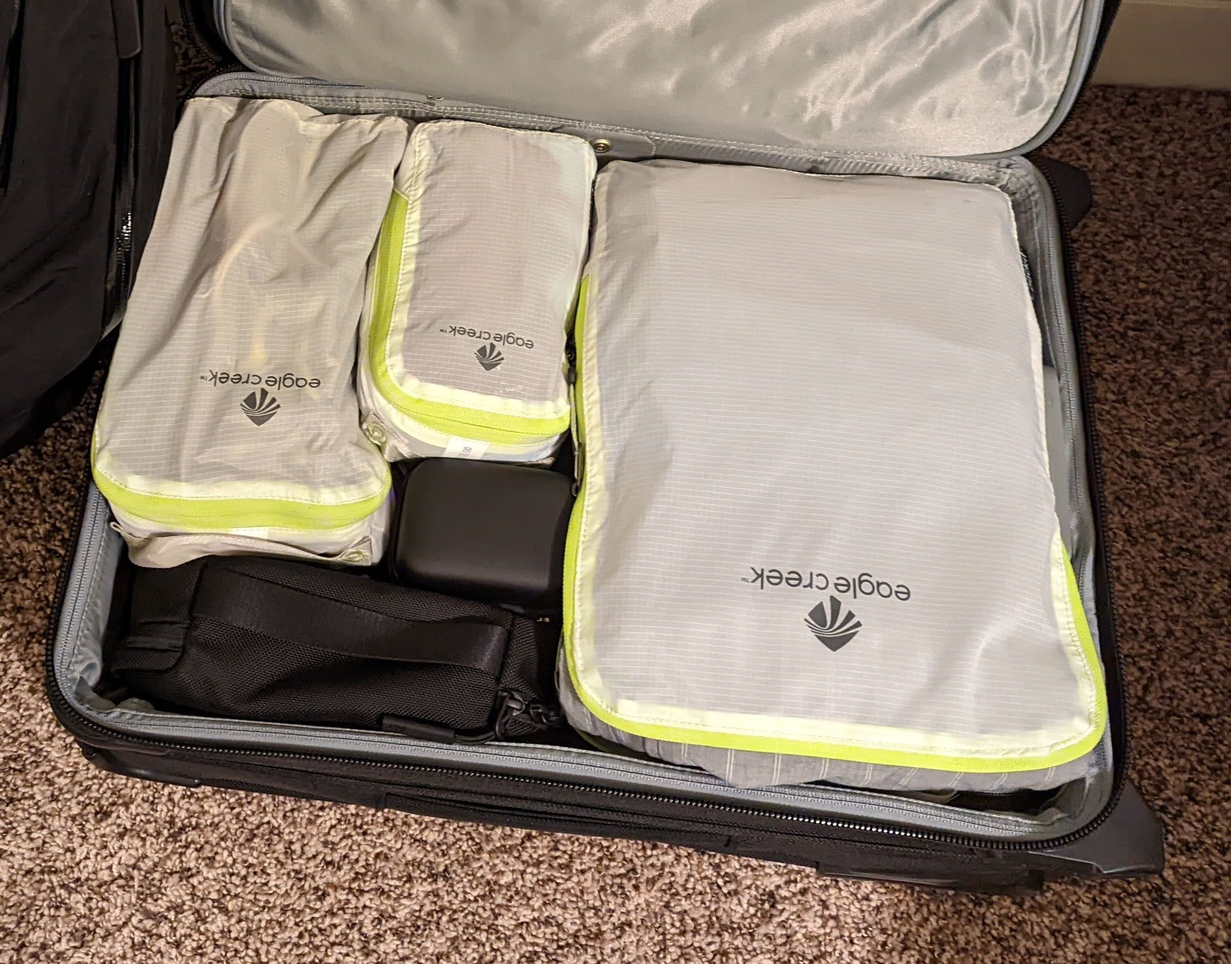
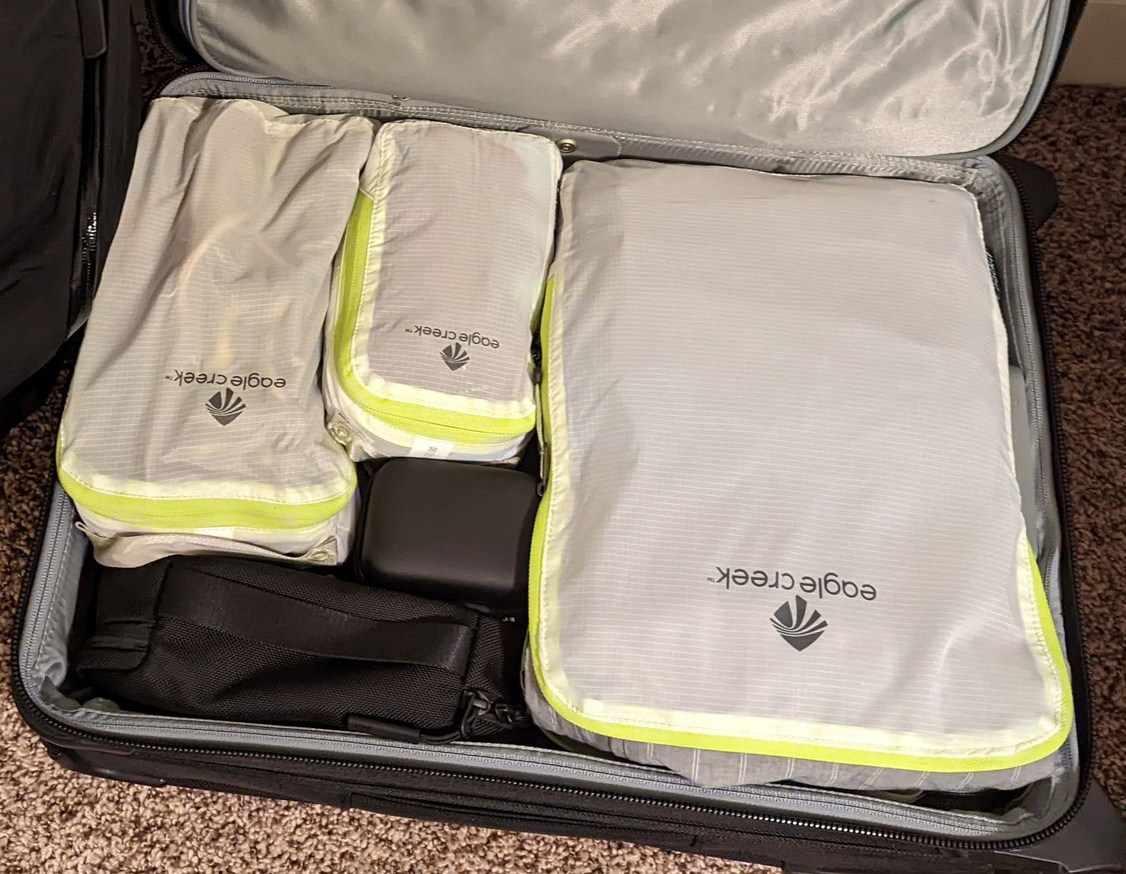
Travel packing post
Also tweaks to showcase selection

diff --git a/_posts/2024-10-09-on-travel-packing.md b/_posts/2024-10-09-on-travel-packing.md
@@ -1,11 +1,11 @@
 ---
 title: On travel packing
 layout: post
-drafting: true
+drafting: 
 date: '2024-10-09'
 modified_date: null
 author: Eric Bell
-summary: Travel packing tips for minimalist packing, with some list examples.
+summary: Packing tips for minimalist travel, with some examples and lists.
 thumbnail: "/assets/images/blog/packing-cubes.jpg"
 tags:
 - travel
@@ -19,38 +19,42 @@ company: null
 <input type="checkbox" id="mn-packed" class="margin-toggle"/>
 <span class="marginnote">
   <img src="/assets/images/blog/packing-ready.jpg" alt="Packing done">
-</span>I spent my COVID lockdown watching a lot of YouTube videos about minimalist packing strategies.
+</span>
+I spent my COVID lockdown watching a lot of YouTube videos about minimalist packing strategies.
 
 ## Lockdown hobby
 
 During the first year of COVID, I was stuck in my rather isolating solo apartment. That same year, my boss at the time<label for="sn-5" class="margin-toggle sidenote-number"></label>
 <input type="checkbox" id="sn-5" class="margin-toggle"/>
-<span class="sidenote">The inimitable<a href="https://thineownadvice.substack.com/">Greg Jagiello</a>.</span>
-had been focused on empowering the design team to include personal and mental health goals in our OKRs,<label for="sn-6" class="margin-toggle sidenote-number"></label>
+<span class="sidenote">The inimitable <a href="https://thineownadvice.substack.com/">Greg Jagiello</a>.</span>
+was focused on empowering the design team to include personal and mental health goals in our OKRs,<label for="sn-6" class="margin-toggle sidenote-number"></label>
 <input type="checkbox" id="sn-6" class="margin-toggle"/>
-<span class="sidenote">The conceptually solid yet implementationally tricky goal-setting method of<a href="https://review.firstround.com/how-to-make-okrs-actually-work-at-your-startup/">Objectives and Key Results</a>.</span> 
+<span class="sidenote">The conceptually solid yet implementationally tricky goal-setting method of <a href="https://review.firstround.com/how-to-make-okrs-actually-work-at-your-startup/">Objectives and Key Results</a>.</span> 
 and encouraging us to actually pursue them. For me, that included goals to work in our other offices and from new locations.
 
-I've always been a lightweight packer, but with one-off packing lists and inconsistent organization. After a year of minimalist packing videos and lists, I came out of lockdown with a significantly optimized setup to start experimenting with digital nomading and sustainable travel strategies. 
+I've always been a lightweight packer, but with one-off packing lists and inconsistent organization. After spending a year incrementally prototyping my packing approach, I came out of lockdown with a significantly optimized setup. It enabled me to experiment with digital nomading and sustainable travel strategies. 
 
 ## General lessons
 
-After iterating through a lot of minimalist packing ideas and finding a good balance for me, my primary lessons included the usefulness of packing cubes, switching a lot of clothing to merino wool, and creating checklist templates so I didn't have to worry about reinventing my packing needs each trip.
+I iterated through a lot of minimalist packing ideas to find a good balance for me. My primary lessons included the usefulness of packing cubes, switching a lot of clothing to merino wool, and creating checklist templates so I didn't have to reinvent my packing needs for every trip.
 
-**Packing cubes**. They're great for organizing things, though not necessarily for saving space. For me they help with the mental (as well as literal) compartmentalization of what types of things I'm packing and keeping track of. *Bonus*: When I get to a destintation, I can keep using them as "drawers" during my stay.
+**Packing cubes**. They're great for organizing things, though not necessarily for saving space. For me they help with the mental (and literal) compartmentalization of what I'm keeping track of. 
+
+*Bonus*: When I get to a destintation, I can throw them on a shelf and keep using them as "drawers" during my stay.
 
 <figure class="">
-		<label for="mn-cubes" class="margin-toggle">⊕</label>
-		<input type="checkbox" id="mn-cubes" class="margin-toggle">
-		<span class="marginnote">Packing cubes for organization</span>
-		<img src="/assets/images/blog/packing-cubes.jpg" alt="packing cubes">
+	<label for="mn-cubes" class="margin-toggle">⊕</label>
+	<input type="checkbox" id="mn-cubes" class="margin-toggle">
+	<span class="marginnote">Packing cubes for organization</span>
+	<img src="/assets/images/blog/packing-cubes.jpg" alt="packing cubes">
 </figure>
 
-**Rolling clothes**. Rolling up all my clothes simplified some things for me. I appreciate the compactness, ease of seeing and sorting them, and marginal reduction in wrinkles.<label for="sn-0" class="margin-toggle sidenote-number"></label>
+**Rolling clothes**. Rolling up all my clothes<label for="sn-0" class="margin-toggle sidenote-number"></label>
 <input type="checkbox" id="sn-0" class="margin-toggle"/>
 <span class="sidenote">Also called the <a href="https://www.youtube.com/watch?v=2QyYgZ6Lrqg">Ranger Roll or Army Roll</a> method.</span>
+simplified some things for me. I appreciate the compactness, ease of seeing and sorting everything, and marginal reduction in wrinkles.
 
-**Merino wool**.  Wool undershirts, overshirts, and socks are the way to go, with some caveats. For shirts and socks, they really do last forever and smell astoundingly less than cotton or synthetics. Undershirts and socks I can wear multiple days in a row, and I have a couple overshirts that I haven't needed to wash for over a year each.<label for="sn-1" class="margin-toggle sidenote-number"></label>
+**Merino wool**.  Wool undershirts, overshirts, and socks are the way to go, with some caveats. For shirts and socks, they really do last forever and smell astoundingly less than cotton or synthetics. Undershirts and socks I can wear multiple days in a row, and I have a couple button-downs that I haven't needed to wash for over a year each.<label for="sn-1" class="margin-toggle sidenote-number"></label>
 <input type="checkbox" id="sn-1" class="margin-toggle"/>
 <span class="sidenote">
 When I heard about Wool & Prince's <a href="https://woolandprince.com/blogs/everyday-merino/your-next-shirt-could-be-on-us">100-day challenge</a> I thought it was nonsense, but actually it was an understatement.
@@ -58,26 +62,33 @@ When I heard about Wool & Prince's <a href="https://woolandprince.com/blogs/ever
 
 *Tradeoffs*: Merino wool is notably expensive, and finding properly soft undershirts can be a challenge.<label for="sn-2" class="margin-toggle sidenote-number"></label>
 <input type="checkbox" id="sn-2" class="margin-toggle"/>
-<span class="sidenote">Hands-down the softest and sturdiest merino t-shirts I've found are from<a href="https://outlier.nyc/collections/shirts/ultrafine-merino-cut-one-t-shirt">Outlier's selection</a>.</span>
-And wool isn't suitable for everything (underwear and vests in particular I've stuck with synthetic and fleece, respectively).<label for="sn-3" class="margin-toggle sidenote-number"></label>
+<span class="sidenote">Hands-down the softest and sturdiest merino t-shirts I've found are from <a href="https://outlier.nyc/collections/shirts/ultrafine-merino-cut-one-t-shirt">Outlier's selection</a>.</span>
+Wool also isn't suitable for everything. I've stuck with synthetics for underwear, gloves and vests in particular.<label for="sn-3" class="margin-toggle sidenote-number"></label>
 <input type="checkbox" id="sn-3" class="margin-toggle"/>
 <span class="sidenote">
 More comments on <a href="https://www.youtube.com/watch?v=BHv-6U9eeWY&t=1667s">merino wool shortcomings</a>.
 </span>
 
-**Hand-washing**. Getting used to washing things in the sink really changed the scale of what I need to pack. While I do still generally pack a week of clothes (and count on a laundry machine at my destination), I discovered that I really only need three sets. Wear one, wash another, let the third dry. With wool and synthetics, most things air dry in a few hours. Some months I exclusively washed everything in the sink. It shifted my mindset from "packing everything to last for X days" to "a rotating wardrobe for an indefinite period of time."
+**Hand-washing**. Getting used to washing things in the sink really changed the scale of what I need to pack. While I do still pack around a week of clothes (and count on a laundry machine at my destination), I discovered that I really only need three sets: wear one, wash another, let the third dry. With wool and wicking synthetics, most things air dry in an afternoon. And some months I did exclusively wash everything in the sink.<label for="sn-7" class="margin-toggle sidenote-number"></label>
+<input type="checkbox" id="sn-7" class="margin-toggle"/>
+<span class="sidenote">
+At first I tried single-use detergent packets, but eventually I just went with shampoo or hand soap.
+</span>
+It shifted my mindset from "packing everything to last for X days" to "a rotating wardrobe for an indefinite period of time."
 
-**Solid toiletries**. Having to keep a separate plastic bag for liquid toiletries really messes up the clean geometry of my suitcase, so I was motivated to remove the need for it at airport security. I gradually switched out all of my liquid toiletries, specifically toothpaste tablets, a conditioner bar (I haven't used shampoo in years), and a shaving soap stick. YMMV.
+<label for="mn-tetris" class="margin-toggle">⊕</label>
+<input type="checkbox" id="mn-tetris" class="margin-toggle"/>
+<span class="marginnote">
+  <img src="/assets/images/blog/packing-tetris.jpg" alt="Everything fits">
+  Everything fits
+</span>
+**Solid toiletries**. Having to keep a separate plastic bag for liquid toiletries really messes up the clean geometry of my suitcase, so I was motivated to remove the need for it at airport security. I gradually switched out all of my liquid toiletries. Specifically, toothpaste tablets, a conditioner bar (I haven't used shampoo in years), and a shaving soap stick. YMMV.
 
 ## Bags and lists
 
-My setup is primarily based around a suitcase and a backpack. These are the size constraints I focused on.
+My setup is primarily based around a suitcase and a backpack. As tempting as it was to try for a single backpack large enough for one-bag travel, my back is not as young as it used to be and physically carrying less is more relaxing. 
 
-**Suitcase + backpack**. A suitcase small enough for international carry-on, and a backpack small enough not to be obnoxious for commuting or day trips. As tempting as it was to try for a single backpack large enough for one-bag travel, my back is not as young as it used to be and physically carrying less is more relaxing. I do include a sling for everyday wear, that among other things is big enough to hold my iPad, but for travel days it gets packed away.<label for="sn-4" class="margin-toggle sidenote-number"></label>
-<input type="checkbox" id="sn-4" class="margin-toggle"/>
-<span class="sidenote">
-Commentary on <a href="https://www.youtube.com/watch?v=cS3r4xMXTlg">what makes a sling useful</a>.
-</span>
+**Suitcase + backpack**. A suitcase small enough for international carry-on, and a backpack small enough not to be obnoxious for day trips or commuting.
 
 <label for="mn-suitcase" class="margin-toggle">⊕</label>
 <input type="checkbox" id="mn-suitcase" class="margin-toggle"/>
@@ -91,10 +102,16 @@ Commentary on <a href="https://www.youtube.com/watch?v=cS3r4xMXTlg">what makes a
 		<img src="/assets/images/blog/packing-backpack.jpg" alt="backpack">
 </figure>
 
+**Sling**. I do also have a sling for everyday use, but for travel days it gets packed away. Among other things, mine is big enough to hold my iPad.<label for="sn-4" class="margin-toggle sidenote-number"></label>
+<input type="checkbox" id="sn-4" class="margin-toggle"/>
+<span class="sidenote">
+Commentary on <a href="https://www.youtube.com/watch?v=cS3r4xMXTlg">what makes a sling useful</a>.
+</span>
+
 <label for="mn-cards" class="margin-toggle">⊕</label>
 <input type="checkbox" id="mn-cards" class="margin-toggle"/>
 <span class="marginnote"><img src="/assets/images/blog/packing-trello-cards.png" alt="thumbnail list"></span>
-**Checklists**. I also made a packing list for each bag and turned them into Trello card templates, with the annotated photo as the thumbnail for each one.
+**Checklists**. I also made a packing list for each bag and turned them into Trello card templates, with the annotated photo as a thumbnail. Each checklist ends with "update the template with any changes".
 
 <figure class="flex">
 		<label for="mn-lists" class="margin-toggle">⊕</label>
@@ -109,7 +126,7 @@ Commentary on <a href="https://www.youtube.com/watch?v=cS3r4xMXTlg">what makes a
 ## Other people's advice
 
 There are endless resources and videos on these topics, and if you have the stomach for them many are insightful.
-- [*Pack Hacker's digital nomad packing list*](https://packhacker.com/packing-list/digital-nomad/). The digital nomad lists tend to be full of newer and niftier things, but there’s no real need to get specialized expensive stuff (except maybe wool), it’s more about the mindset and thinking through your needs. They have a budget travel packing list, too.
-- [*A couple describes their overall approach and lessons*](https://youtu.be/M4WxFM2uV2U). Considerations for a two-person approach to packing for indefinite travel.
+- [*Pack Hacker's digital nomad packing list*](https://packhacker.com/packing-list/digital-nomad/). "Digital nomad"-oriented lists tend to be full of newer and niftier things, but there’s no real need to get specialized expensive stuff (except maybe wool). It’s more about the mindset and thinking through your needs. They have a budget travel packing list, too.
+- [*A couple describes their list and lessons*](https://youtu.be/M4WxFM2uV2U). Considerations for a two-person approach to packing for indefinite travel.
 
 Thanks for reading, and I hope you found something useful.

diff --git a/_roles/Fanga.md b/_roles/Fanga.md
@@ -1,7 +1,7 @@
 ---
 layout: role
 company: Rakuten Manga
-logo: /assets/images/logo-fanga.png
+logo: /assets/images/fanga-logo.png
 thumbnail: /assets/images/fanga-paneling.jpg
 tagline: Comics with a global following, powered by fans
 position: Director of Product Design
@@ -10,9 +10,6 @@ date: 2016-03-31
 dateshow: 2015-2016
 tags: startup spinoff consumer comics crowdsourcing translation strategy web mobile CMS analytics research showcase
 ---
-
-Viki & Rakuten Manga | Dir PD SF • Singapore • France '13-'16
-Fan-translation platforms for global TV & comics. Directing, coordinating, designing UX strategy across external & internal product teams. Formed & led design team. #strategy #web #mobile #CMS #analytics #research
 
 ### Industry
 
@@ -36,23 +33,30 @@ I collaborated across a trans-Atlantic team to flesh out a product vision and ro
 
 Our team was split between Viki's office in San Francisco, where I was based with our CEO and community manager, and Aquafadas' in Montpellier, France, where our CTO, PM, and engineering teams, with a content acquisition team in Tokyo.
 
+<label for="mn-paneling" class="margin-toggle">⊕</label>
+<input type="checkbox" id="mn-paneling" class="margin-toggle"/>
+<span class="marginnote">
+	<img src="/assets/images/fanga-paneling.jpg" alt="Panels and bubbles">
+	Marking the panels and speech bubbles</span>
+<label for="mn-translation" class="margin-toggle">⊕</label>
+<input type="checkbox" id="mn-translation" class="margin-toggle"/>
+<span class="marginnote">
+	<img src="/assets/images/fanga-translation.jpg" alt="Translation interface">
+	Translating and styling</span>
 ### Outcome
 
 Launched a beta platform with test content and an budding fan community, began iterating on the platform with community feedback. Due to parent company's unrealistic revenue timelines and content priorities, the initiative was prematurely canceled.
 
 ## Project areas
 
-Product Strategy
-High level product vision, roadmap, and prioritization.
-strategic approach + product areas
-primary scenarios + roadmap phasing + challenges functionality
+**Product Strategy**. High level product vision, roadmap, and prioritization.
 
-Translation Platform
-Translation workflow (bubbles and lettering) prototyping and iteration.
+<!-- strategic approach + product areas
+primary scenarios + roadmap phasing + challenges functionality -->
 
-Catalog & Library
-Content organization and navigation for translator, reader, and paid content.
+**Translation Platform**. Translation workflow (bubbles and lettering) prototyping and iteration.
 
-Reading Experience
-Dynamic panel grouping behavior guidance, reader interactions.
+**Catalog & Library**. Content organization and navigation for translator, reader, and paid content.
+
+**Reading Experience**. Dynamic panel grouping behavior guidance, reader interactions.
 

diff --git a/index.md b/index.md
@@ -104,12 +104,13 @@ Currently I'm using this site to practice [learning in public](https://www.swyx.
 ## Some other fun stuff I've done
 
 <!-- Merge collections into one -->
-{% assign all_posts = site.projects | concat: site.roles | concat: site.talks %}
+{% assign all_posts = site.projects | concat: site.roles | concat: site.talks | concat: site.posts %}
 
 <!-- Initialize the showcase entries -->
 {% assign showcase_project = nil %}
 {% assign showcase_role = nil %}
 {% assign showcase_talk = nil %}
+{% assign showcase_post = nil %}
 
 <!-- Loop through all the posts -->
 <!-- {% for post in all_posts %}
@@ -138,6 +139,10 @@ Currently I'm using this site to practice [learning in public](https://www.swyx.
       {% if showcase_talk == nil or post.date > showcase_talk.date %}
         {% assign showcase_talk = post %}
       {% endif %}
+    {% elsif post.collection == 'posts' %}
+      {% if showcase_post == nil or post.date > showcase_post.date %}
+        {% assign showcase_post = post %}
+      {% endif %}
     {% endif %}
   {% endif %}
 {% endfor %}
@@ -152,6 +157,9 @@ Currently I'm using this site to practice [learning in public](https://www.swyx.
 {% endif %}
 {% if showcase_talk %}
   {% assign showcase_items = showcase_items | push: showcase_talk %}
+{% endif %}
+{% if showcase_post %}
+  {% assign showcase_items = showcase_items | push: showcase_post %}
 {% endif %}
 
 <!-- Sort the showcase items by date (newest first) -->

diff --git a/_projects/hackathon-wtf-denied-explaining-benefits-better-2013-10.md b/_projects/hackathon-wtf-denied-explaining-benefits-better-2013-10.md
@@ -8,7 +8,6 @@ tags:
 - hackathon
 - oneshot
 - portfolio
-- showcase
 tumblr_url: https://ericthebell.info/post/65634212051/wtf-denied-explaining-benefits-better
 ---
 A project at the [Health 2.0 Code-a-thon: Power to the Patient](http://www.health2con.com/devchallenge/health-2-0s-sf-code-a-thon-12/). Winner of the EOB Redesign Challenge, 2nd place overall.

diff --git a/_projects/hackathon-frood-frictionless-food-entry-on-mobile-2012-10.md b/_projects/hackathon-frood-frictionless-food-entry-on-mobile-2012-10.md
@@ -3,6 +3,7 @@ layout: post
 title: 'Frood: frictionless food entry on mobile'
 company: Side projects
 date: '2012-10-21T11:07:00-04:00'
+thumbnail: /assets/images/hack-frood-screen.png
 tags:
 - hackathon
 - one-shot

diff --git a/_posts/2024-09-27-experiment-tracking-dashboard.md b/_posts/2024-09-27-experiment-tracking-dashboard.md
@@ -13,6 +13,7 @@ tags:
 - lean
 - experiments
 - HyeTech
+- showcase
 company: HyeTech
 ---
 
